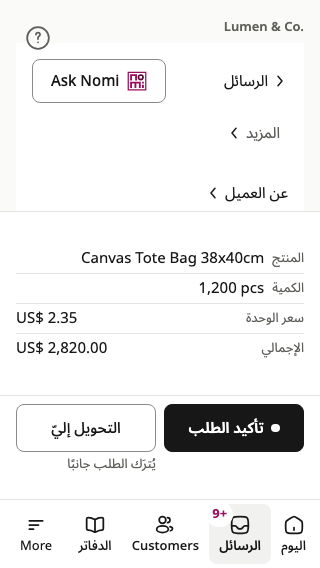
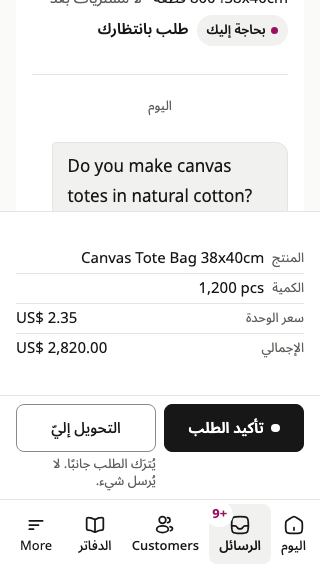
Freeze the approved order explanations and final visual evidence

diff --git a/docs/design/ui-correction/block2/fix2/README.md b/docs/design/ui-correction/block2/fix2/README.md
@@ -1,6 +1,6 @@
 # Block 2 · fix round 2 capture checkpoint
 
-60 whole viewport images, opened and inspected by the frontend: 50 after and 10 before. All customer, conversation and order data are synthetic. Source commits and image hashes are listed individually in [images.csv](images.csv). Captures made immediately before an item commit use that commit when its source is identical to the captured build.
+74 whole viewport images, opened and inspected by the frontend: 64 after and 10 before. The final owner-copy update replaces six order views and adds fourteen views; see [owner-copy/README.md](owner-copy/README.md). All customer, conversation and order data are synthetic. Source commits and image hashes are listed individually in [images.csv](images.csv). Captures made immediately before an item commit use that commit when its source is identical to the captured build.
 
 ## What changed
 
@@ -13,11 +13,13 @@
 ## Reading the images
 
 - `f13-{en,ar}-{320,390,1280,1440}-{closed,loading,error,open}.png`: all 32 final pane states at source `e51f28a7`.
-- `arrival-final-{en,ar,fr}-{phone320,zoom200eq}-{draft,order}.png`: all 12 final arrival examples at source `d198eefa`; four matched baseline phone examples are included.
+- `arrival-final-{en,ar,fr}-{phone320,zoom200eq}-{draft,order}.png`: 12 arrival examples: reply source `d198eefa`, order source `6c81b12b` after the owner copy decision; four matched baseline phone examples are included. Final arrival positions were re-measured in the full R-1 matrix at `6c81b12b`.
 - `n1-{en,ar,es,fr,zh}-320.png`: five complete phone tab bars. The matched French baseline is `design-before-fr-phone320-inbox.png`.
 - `n2-before-fr-1440.png` and `n2-after-fr-1440.png`: date and chevron spacing.
 - `design-before-{en,ar}-1440-{closed,open}.png`: matched pane baseline.
 
 The review checks the entire viewport, including the return control, labels, draft, warning/figure context, action band and tab bar. Content at a scroll region's edge remains scrollable; these viewport images do not claim that every page section fits at once. The inherited English strings/RTL gaps on Arabic pages remain open. The pane's short loading/error background and 1280 px content indentation remain deferred design items. No physical phone keyboard or touch behavior is claimed.
 
-This is a capture checkpoint, not the independent verification report. The full R-1 sweep, action inventory, full four, pre-pilot and subsequent merge were pending the supervisor's quiet slot when these images were frozen. The order hints' wording, owner ruling (a), inherited Arabic gaps, Knowledge French at 280 px and deferred polish remain OPEN.
+This is a capture record, not independent acceptance. Final builder R-1 at `6c81b12b` passes 1,760 arrivals, 4,400 scroll samples and 34,324 reachability targets; all 80 contextual arrivals pass. Fresh Back 80/80 and Escape 40/40 also pass. Full-suite and merge results belong to the final handoff. The owner approved the order hints and accepted ruling(a), the script-off tall reply box, on 2026-11-16. Inherited Arabic gaps, Knowledge French at 280, deferred polish and physical-phone coverage remain OPEN.
+
+The final builder inventory compares 560 cases per build against `c4983f7e`: all 43,310 original entries retained, zero missing. The 440 additions are the explicit retry button and full-page recovery link across conversation cases. Existing form commands, fields, confirmation prompts and placeholders are unchanged.

diff --git a/docs/design/ui-correction/block2/fix2/owner-copy/README.md b/docs/design/ui-correction/block2/fix2/owner-copy/README.md
@@ -1,0 +1,17 @@
+# Owner-approved order explanations
+
+Source `6c81b12b`. Five locales at 320×568 and 720×450 with device scale 2. Each primary state and each separate take-over state was opened as a whole image. The order's four figures, its Confirm action and its set-aside explanation remain whole. Scrolling the existing region reaches the separate take-over command and its explanation. No command or form field changed.
+
+English, Arabic and French primary images replace the six `arrival-final-*-order.png` images in the parent folder. Spanish/Chinese primary images and all ten take-over views are here. Per-image source and hashes are in [../images.csv](../images.csv).
+
+| Locale | Set-aside explanation | Take-over explanation |
+|---|---|---|
+| en | Sets the order aside. Nothing is sent. | The order keeps waiting for you. |
+| zh | 搁置订单。不会发送任何内容。 | 订单仍在等待你处理。 |
+| ar | يُترَك الطلب جانبًا. لا يُرسل شيء. | يبقى الطلب بانتظارك. |
+| es | Deja el pedido de lado. No se envía nada. | El pedido sigue esperándote. |
+| fr | Met la commande de côté. N’envoie rien. | La commande vous attend toujours. |
+
+The French second sentence uses the equivalent “N’envoie rien.” so both sentences fit above the 320px bar. The longer initial translation took three lines and was rejected by the unchanged overlap probe. No band height or type size changed. Arabic uses the passive and unvowelled ـك; Chinese owner copy retains 你.
+
+The owner accepted ruling(a), the script-off tall reply box, on 2026-11-16. It remains unchanged. Inherited Arabic/RTL gaps, Knowledge French at 280, deferred polish and physical-phone coverage remain open.
